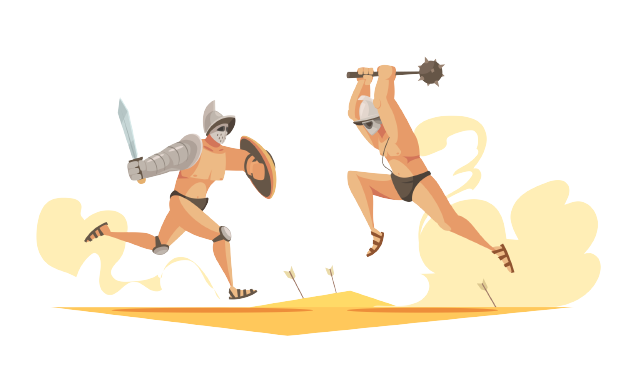
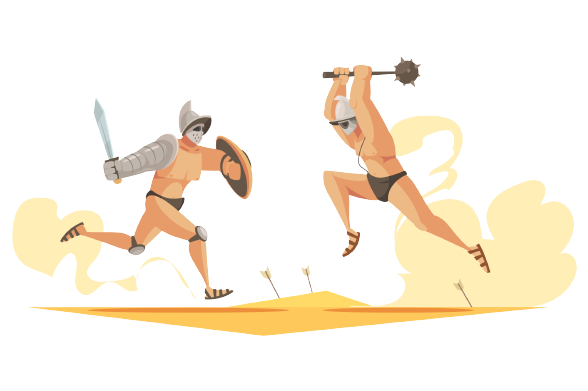
nothing significant

Changed region(s): [[0.0, 0.1535, 0.9796, 0.8286], [0.3061, 0.8286, 0.6429, 0.8593], [0.4286, 0.6752, 0.4592, 0.7059]]

diff --git a/react_app/src/App.js b/react_app/src/App.js
@@ -7,7 +7,7 @@ import { updateCompanies } from './redux/companies';
 import Header from './Components/Header'
 // import CompaniesContainer from './Components/CompaniesContainer';
 import CompanyTile from './Components/CompanyTile'
-import gladiators from './assets/gladiators.png';
+import gladiators from './assets/gladiators-trimmed.png';
 import vs from './assets/vs-1.png';
 
 
@@ -37,16 +37,22 @@ function App() {
   return (
     <div className='app'>
       <Header/>
-      <Row className='d-flex body-container'>
-        <Col>
-          <CompanyTile/>
+      <Row className='d-flex body-container w-100 p-0 m-0'>
+        <Col className='col-sm-4 m-0 p-0'>
+          <CompanyTile className='m-0 p-0'/>
         </Col>
-        <Col>
-          <img className='verses' src={vs}></img>
-          <img className='gladiators'></img>
-        </Col>
-        <Col>
-          <CompanyTile/>
+        <Container className='image-container col-sm-4 m-0 p-0'>
+          <Row className='w-100 m-0 p-0 justify-content-center'>
+            {/* fuck */}
+            <img className='verses' src={vs}></img>
+          </Row>
+          <Row className='w-100 m-0 p-0 justify-content-center'>
+            {/* me */}
+            <img className='gladiators' src={gladiators}></img>
+          </Row>
+        </Container>
+        <Col className='col-sm-4 m-0 p-0'>
+          <CompanyTile className='m-0 p-0'/>
         </Col>
       </Row>
     </div>

diff --git a/react_app/src/App.css b/react_app/src/App.css
@@ -16,7 +16,18 @@
   width: 100%;
 }
 
+.image-container {
+  display: flex;
+  flex-direction: column;
+  justify-content: center;
+}
+
 .verses {
-  height: 200px;
-  width: auto;
+  max-height: 250px !important;
+  max-width: 250px !important;
+}
+
+.gladiators {
+  max-height: 260px !important;
+  max-width: 588px !important;
 }
